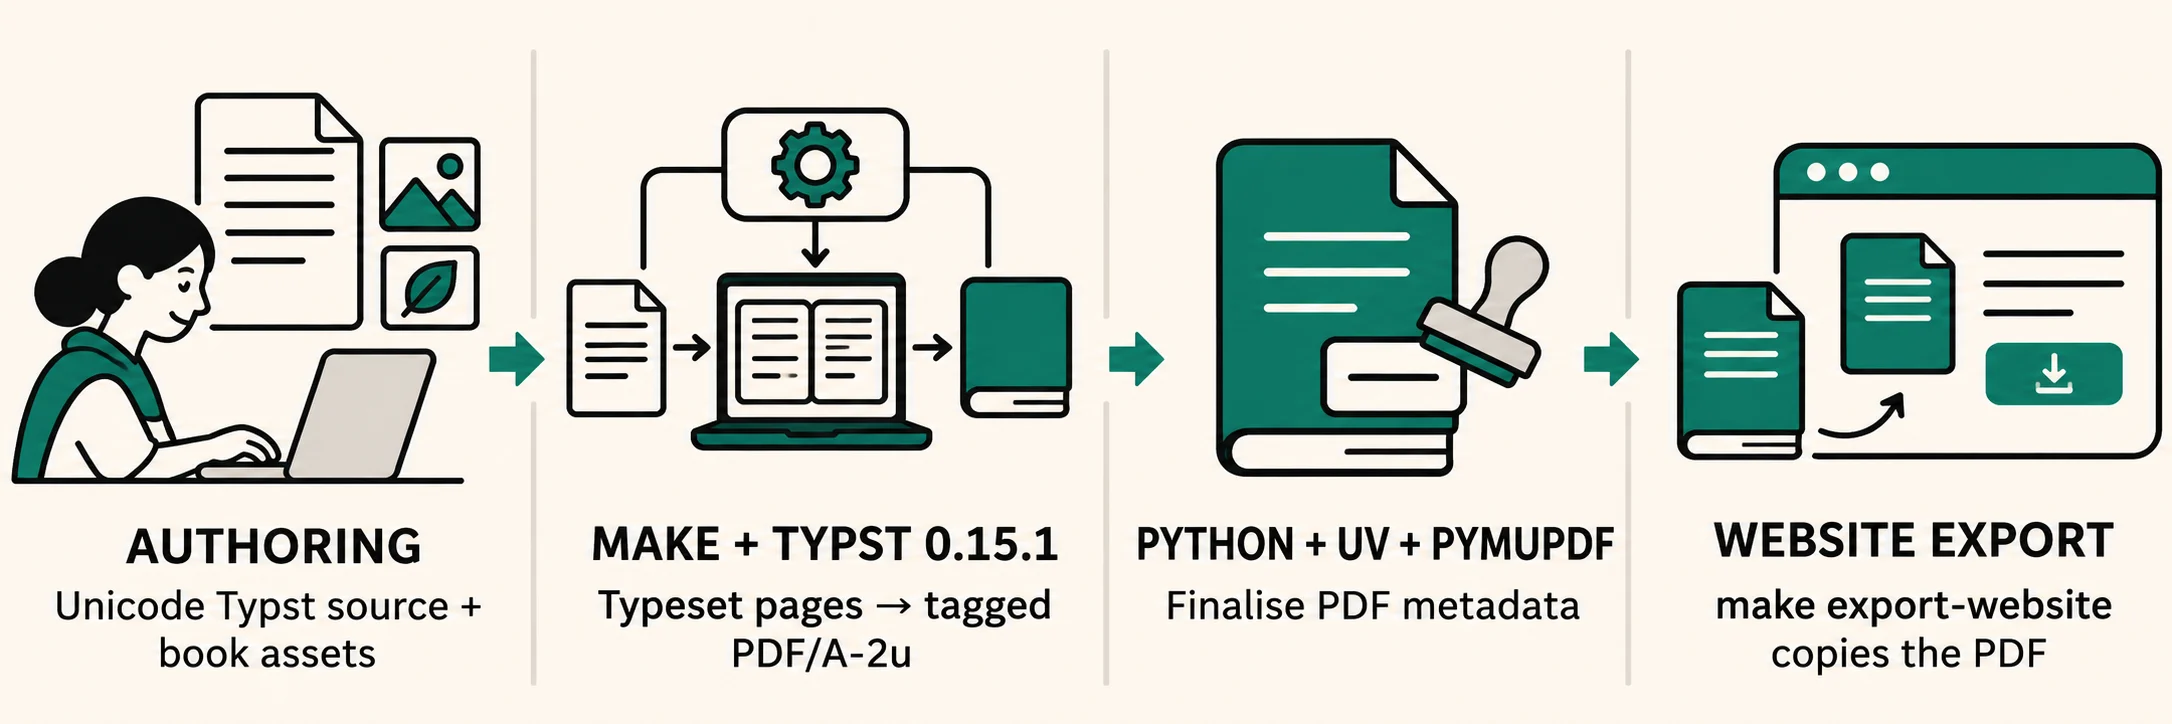
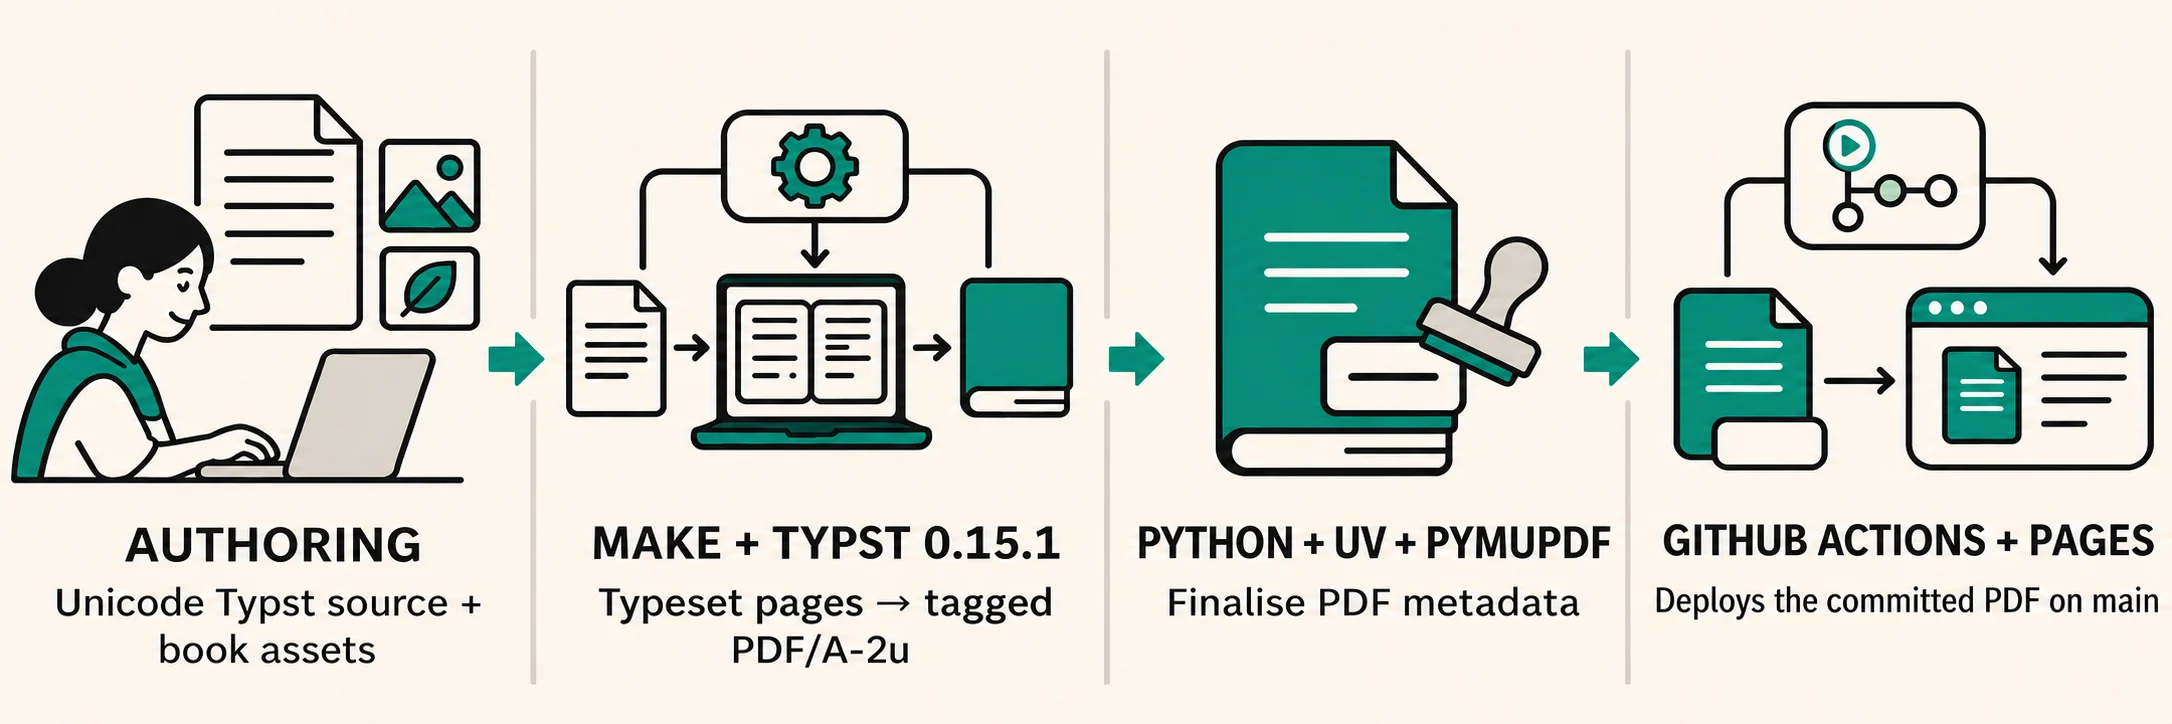
docs(build): sync pipeline illustration with deployment (#4)
## Summary

- Update the build-pipeline illustration to show GitHub Actions
deploying the committed PDF to Pages from `main`.
- Correct the PyMuPDF label and update the image-generation prompt and
README alt text.

## Validation

- `make check lint link-check`
- `git diff --check`

diff --git a/README.md b/README.md
@@ -9,7 +9,7 @@ This repository contains the editable book, its assets, and the finished
 [PDF](science-curiosity.pdf). GitHub Pages publishes the PDF, and the author's
 website links readers to it.
 
-![Four-stage book build: authoring Unicode Typst source and assets; Make runs Typst 0.15.1 to typeset tagged PDF/A-2u pages; Python, uv and PyMuPDF finalise PDF metadata; make export-website copies the PDF to the website.](figures/book-build-pipeline.webp)
+![Four-stage book build: authoring Unicode Typst source and assets; Make runs Typst 0.15.1 to typeset tagged PDF/A-2u pages; Python, uv, and PyMuPDF finalise PDF metadata; GitHub Actions deploys the committed PDF to Pages on main.](figures/book-build-pipeline.webp)
 
 ## Technology and architecture
 
